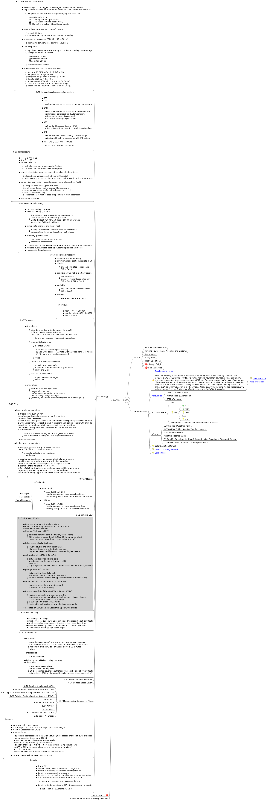
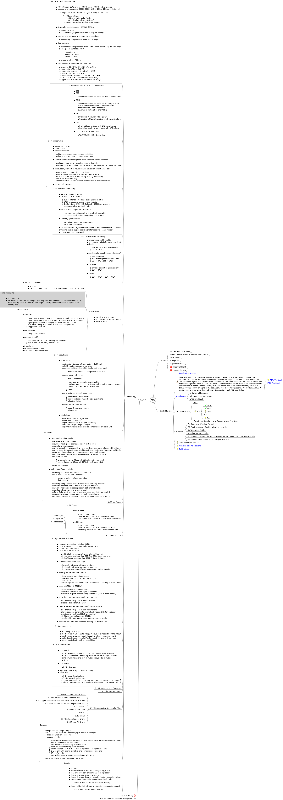
extended ATPL mind map

diff --git a/ATPL/Exam/ATPL.mm b/ATPL/Exam/ATPL.mm
@@ -10073,7 +10073,7 @@
   </body>
 </html></richcontent>
 </node>
-<node CREATED="1573330379861" FOLDED="true" ID="ID_227963538" MODIFIED="1573423664107">
+<node CREATED="1573330379861" FOLDED="true" ID="ID_227963538" MODIFIED="1573518619630">
 <richcontent TYPE="NODE"><html>
   <head>
     
@@ -10143,7 +10143,7 @@
     </ul>
   </body>
 </html></richcontent>
-<node CREATED="1573421102775" ID="ID_1505959441" MODIFIED="1573421466537">
+<node CREATED="1573421102775" ID="ID_1505959441" MODIFIED="1573518298917">
 <richcontent TYPE="NODE"><html>
   <head>
     
@@ -10191,16 +10191,17 @@
             valleys and funnels
           </li>
           <li>
-            foehn
+            foehn (SALR on windward, DALR on leeward)
           </li>
         </ul>
       </li>
     </ul>
   </body>
-</html></richcontent>
+</html>
+</richcontent>
 </node>
 </node>
-<node CREATED="1573330402397" FOLDED="true" ID="ID_368882476" MODIFIED="1573425735480">
+<node CREATED="1573330402397" FOLDED="true" ID="ID_368882476" MODIFIED="1573518623380">
 <richcontent TYPE="NODE"><html>
   <head>
     
@@ -10447,7 +10448,7 @@
   </body>
 </html></richcontent>
 </node>
-<node CREATED="1573330478270" FOLDED="true" ID="ID_990537658" MODIFIED="1573508734883">
+<node CREATED="1573330478270" ID="ID_990537658" MODIFIED="1573518016942">
 <richcontent TYPE="NODE"><html>
   <head>
     
@@ -10471,7 +10472,8 @@
       </li>
     </ul>
   </body>
-</html></richcontent>
+</html>
+</richcontent>
 <node CREATED="1573431683901" ID="ID_1940104592" MODIFIED="1573498304369">
 <richcontent TYPE="NODE"><html>
   <head>
@@ -10490,10 +10492,9 @@
       </li>
     </ul>
   </body>
-</html>
-</richcontent>
+</html></richcontent>
 </node>
-<node CREATED="1573498129764" ID="ID_1442594150" MODIFIED="1573498280369">
+<node CREATED="1573498129764" ID="ID_1442594150" MODIFIED="1573518648885">
 <richcontent TYPE="NODE"><html>
   <head>
     
@@ -10510,7 +10511,76 @@
         TCU, ACC, CB
       </li>
       <li>
-        winter warm front with higher freezing level and precipitation into cold sector with lower freezing level and missing freezing nuclei: supercooled droplets, ice pellets and freezing rain
+        NS, winter warm front with higher freezing level and precipitation into cold sector with lower freezing level and missing freezing nuclei: supercooled droplets, ice pellets and freezing rain
+      </li>
+    </ul>
+  </body>
+</html>
+</richcontent>
+</node>
+<node CREATED="1573516421546" ID="ID_1297652932" MODIFIED="1573518506278">
+<richcontent TYPE="NODE"><html>
+  <head>
+    
+  </head>
+  <body>
+    <p>
+      Development
+    </p>
+    <p>
+      
+    </p>
+    <ul>
+      <li>
+        convection
+
+        <ul>
+          <li>
+            cloud base = spread * 400, cloud base = spread * 1000 / 3 (DALR)
+          </li>
+          <li>
+            cloud tops where SALR = ELR (vertical movement stops, inversion)
+          </li>
+          <li>
+            layers possible due to changing spread (moisture content)
+          </li>
+          <li>
+            ELR must allow parcel to rise to dew point temperature
+          </li>
+          <li>
+            trigger temperature
+          </li>
+        </ul>
+      </li>
+      <li>
+        convergence
+
+        <ul>
+          <li>
+            troughs, sea breezes
+          </li>
+        </ul>
+      </li>
+      <li>
+        orographic uplift
+
+        <ul>
+          <li>
+            unstable: TCU, ACC, CB (possibly embedded)
+          </li>
+          <li>
+            stable: cap clouds, ACL, rotor clouds
+          </li>
+        </ul>
+      </li>
+      <li>
+        frontal uplift
+      </li>
+      <li>
+        advection / conduction
+      </li>
+      <li>
+        turbulent mixing / inversion
       </li>
     </ul>
   </body>
@@ -10628,7 +10698,7 @@
   </body>
 </html></richcontent>
 </node>
-<node CREATED="1573330590146" FOLDED="true" ID="ID_1075915924" MODIFIED="1573506480449">
+<node CREATED="1573330590146" FOLDED="true" ID="ID_1075915924" MODIFIED="1573518241534">
 <richcontent TYPE="NODE"><html>
   <head>
     
@@ -10727,8 +10797,7 @@
       </li>
     </ul>
   </body>
-</html>
-</richcontent>
+</html></richcontent>
 <node CREATED="1573408934993" ID="ID_1535654758" MODIFIED="1573504383896">
 <richcontent TYPE="NODE"><html>
   <head>
@@ -10798,8 +10867,7 @@
       </li>
     </ul>
   </body>
-</html>
-</richcontent>
+</html></richcontent>
 </node>
 <node CREATED="1573408945303" ID="ID_57683935" MODIFIED="1573502870154">
 <richcontent TYPE="NODE"><html>
@@ -10840,8 +10908,7 @@
       </li>
     </ul>
   </body>
-</html>
-</richcontent>
+</html></richcontent>
 </node>
 <node CREATED="1573500051602" ID="ID_492057340" MODIFIED="1573500680885">
 <richcontent TYPE="NODE"><html>
@@ -10864,8 +10931,7 @@
       </li>
     </ul>
   </body>
-</html>
-</richcontent>
+</html></richcontent>
 </node>
 <node CREATED="1573503019877" ID="ID_1158740086" MODIFIED="1573504117733">
 <richcontent TYPE="NODE"><html>
@@ -10924,8 +10990,7 @@
       </li>
     </ul>
   </body>
-</html>
-</richcontent>
+</html></richcontent>
 </node>
 </node>
 <node CREATED="1573330604065" ID="ID_1607843192" MODIFIED="1573330609663" TEXT="6.09 Air Masses"/>
@@ -11103,8 +11168,7 @@
       </li>
     </ul>
   </body>
-</html>
-</richcontent>
+</html></richcontent>
 </node>
 <node CREATED="1573331153527" ID="ID_1872410311" MODIFIED="1573331730986">
 <richcontent TYPE="NODE"><html>
@@ -11436,8 +11500,7 @@
       </li>
     </ul>
   </body>
-</html>
-</richcontent>
+</html></richcontent>
 </node>
 </node>
 <node CREATED="1573344654829" ID="ID_1590093799" MODIFIED="1573346102357">
